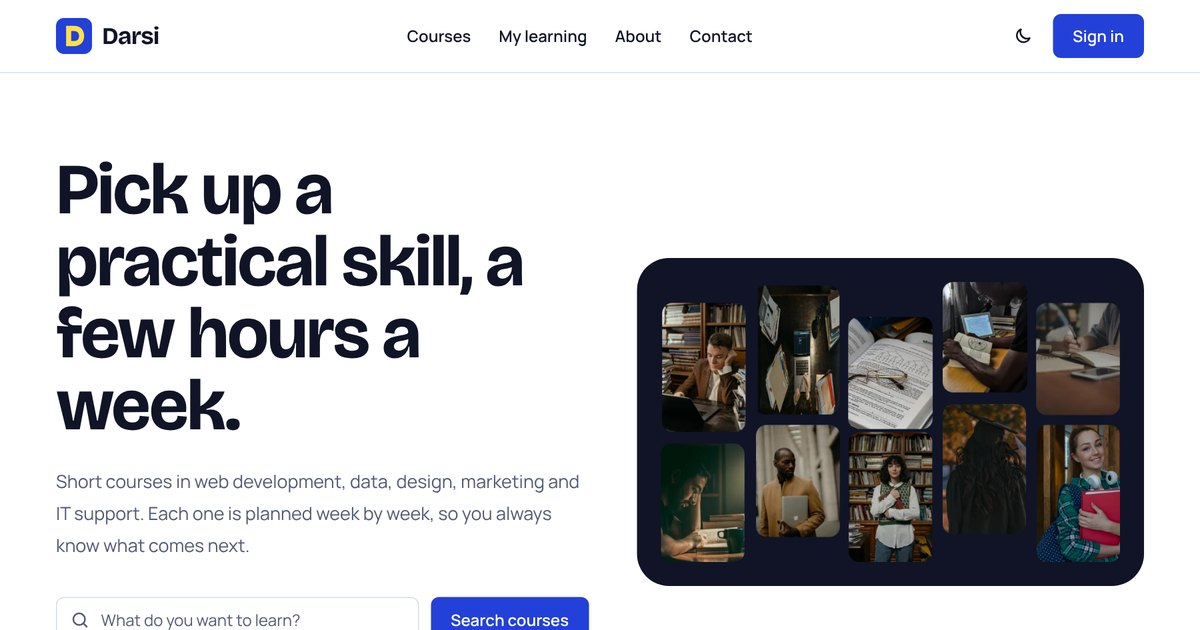
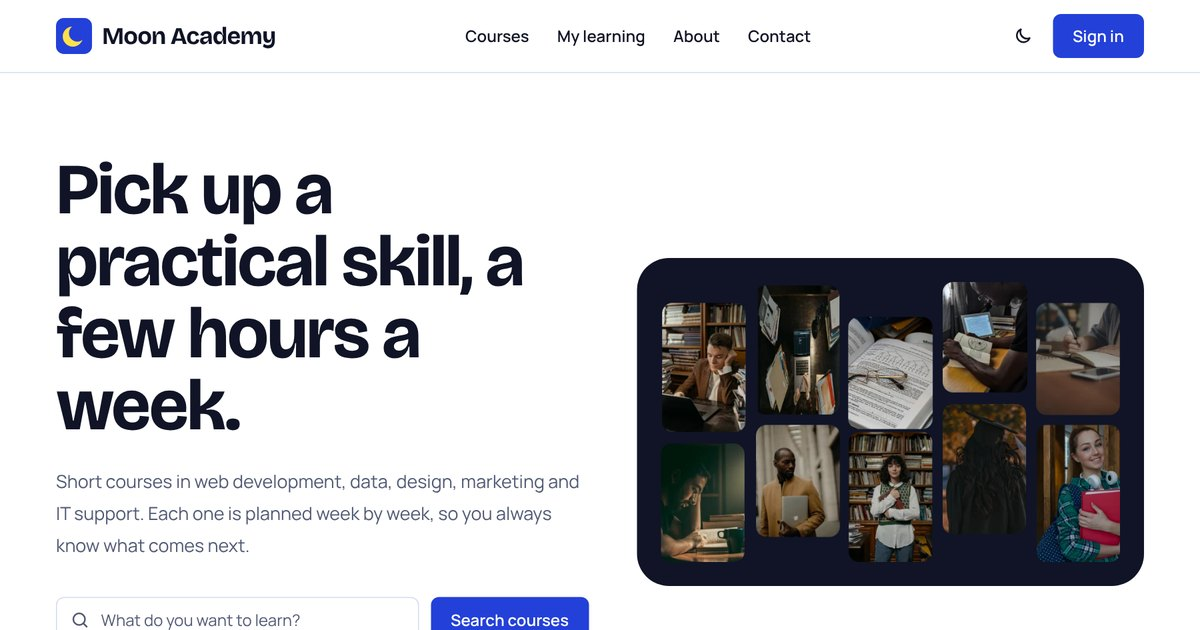
Rename the platform to Moon Academy
New name in the header, footer, page titles and README, a crescent
moon for the logo and icon, and storage keys that follow the name.
The live address is now moon-academy-courses.vercel.app.

Claude-Session: https://claude.ai/code/session_01TkRPnwSefusrgepjoER5a5

Changed region(s): [[0.3392, 0.0302, 0.6783, 0.0905], [0.0308, 0.0302, 0.2467, 0.0905]]

diff --git a/index.html b/index.html
@@ -3,13 +3,13 @@
   <head>
     <meta charset="UTF-8" />
     <meta name="viewport" content="width=device-width, initial-scale=1.0" />
-    <title>Darsi | Short online courses, planned week by week</title>
+    <title>Moon Academy | Short online courses, planned week by week</title>
     <meta
       name="description"
-      content="Darsi is a front-end demo of an online course platform: browse courses, enroll, and track your progress lesson by lesson."
+      content="Moon Academy is a front-end demo of an online course platform: browse courses, enroll, and track your progress lesson by lesson."
     />
     <meta name="theme-color" content="#2340D9" />
-    <meta property="og:title" content="Darsi | Short online courses, planned week by week" />
+    <meta property="og:title" content="Moon Academy | Short online courses, planned week by week" />
     <meta property="og:description" content="A front-end demo of an online course platform: browse courses, enroll, and track your progress lesson by lesson." />
     <meta property="og:type" content="website" />
     <meta property="og:image" content="/og.jpg" />
@@ -24,7 +24,7 @@
     <script>
       // Apply the saved or system theme before the first paint, so the page does not flash.
       try {
-        var saved = localStorage.getItem('darsi:theme')
+        var saved = localStorage.getItem('moon-academy:theme')
         var dark = saved ? saved === 'dark' : window.matchMedia('(prefers-color-scheme: dark)').matches
         if (dark) document.documentElement.classList.add('dark')
       } catch (e) {}

diff --git a/src/pages/Contact.jsx b/src/pages/Contact.jsx
@@ -3,7 +3,7 @@ import { Link } from 'react-router-dom'
 import FormField from '../components/FormField.jsx'
 import { emailPattern, useLearner } from '../lib/learner.jsx'
 
-const topics = ['A question about a course', 'A problem with the site', 'Teaching on Darsi', 'Something else']
+const topics = ['A question about a course', 'A problem with the site', 'Teaching at Moon Academy', 'Something else']
 
 function check(values) {
   const errors = {}
@@ -45,7 +45,7 @@ export default function Contact() {
         <div className="panel max-w-2xl" role="status">
           <h1 className="text-4xl font-bold tracking-tight">Thank you, {values.name.trim()}.</h1>
           <p className="soft mt-4 text-lg leading-8">
-            This is where a real site would confirm your message. Darsi is a demo, so the message was checked and then discarded: nothing was sent or stored.
+            This is where a real site would confirm your message. Moon Academy is a demo, so the message was checked and then discarded: nothing was sent or stored.
           </p>
           <div className="mt-8 flex flex-wrap gap-3">
             <Link to="/courses" className="btn-primary">

diff --git a/src/components/Navbar.jsx b/src/components/Navbar.jsx
@@ -22,13 +22,14 @@ function linkClass({ isActive }) {
 
 export function Brand() {
   return (
-    <Link to="/" className="flex items-center gap-2.5" aria-label="Darsi, home">
-      <svg viewBox="0 0 64 64" className="h-9 w-9" aria-hidden="true">
+    <Link to="/" className="flex items-center gap-2.5" aria-label="Moon Academy, home">
+      <svg viewBox="0 0 64 64" className="h-9 w-9 flex-none" aria-hidden="true">
         <rect width="64" height="64" rx="14" className="fill-cobalt" />
-        <path d="M18 14h14c11 0 18 7 18 18s-7 18-18 18H18z" className="fill-marker" />
-        <path d="M27 23h5c5.5 0 9 3.5 9 9s-3.5 9-9 9h-5z" className="fill-cobalt" />
+        {/* A crescent: a full disc with a second disc, in the background color, laid over it. */}
+        <circle cx="30" cy="33" r="18" className="fill-marker" />
+        <circle cx="38" cy="27" r="15" className="fill-cobalt" />
       </svg>
-      <span className="font-display text-2xl font-bold tracking-tight">Darsi</span>
+      <span className="whitespace-nowrap font-display text-2xl font-bold tracking-tight">Moon Academy</span>
     </Link>
   )
 }

diff --git a/src/components/Footer.jsx b/src/components/Footer.jsx
@@ -26,8 +26,8 @@ export default function Footer() {
           </ul>
         </nav>
 
-        <nav aria-label="Darsi">
-          <h2 className="font-body text-base font-bold">Darsi</h2>
+        <nav aria-label="Moon Academy">
+          <h2 className="font-body text-base font-bold">Moon Academy</h2>
           <ul className="mt-4 space-y-2.5">
             {[
               ['/courses', 'All courses'],
@@ -47,7 +47,7 @@ export default function Footer() {
 
       <div className="border-t border-line dark:border-night-line">
         <p className="wrap soft py-6 text-sm leading-6">
-          Darsi is a front-end demo. Courses, instructors and figures are sample data, and nothing you enter leaves
+          Moon Academy is a front-end demo. Courses, instructors and figures are sample data, and nothing you enter leaves
           your browser.
         </p>
       </div>

diff --git a/src/pages/About.jsx b/src/pages/About.jsx
@@ -28,7 +28,7 @@ export default function About() {
     <div className="wrap pb-8 pt-12 lg:pt-16">
       <h1 className="max-w-4xl text-5xl font-bold leading-[1.05] tracking-tight sm:text-6xl">A course platform you can try end to end.</h1>
       <p className="soft mt-6 max-w-2xl text-lg leading-8">
-        Darsi is a front-end demo. The {totals.courses} courses and {totals.lessons} lessons are sample content, the instructors are invented, and nothing is
+        Moon Academy is a front-end demo. The {totals.courses} courses and {totals.lessons} lessons are sample content, the instructors are invented, and nothing is
         sold. What is real is the interface: you can search, enroll, tick off lessons and come back to find your place.
       </p>
 

diff --git a/src/lib/learner.jsx b/src/lib/learner.jsx
@@ -2,7 +2,7 @@ import { createContext, useContext, useEffect, useMemo, useState } from 'react'
 
 // The "account" in this demo lives only in the visitor's browser.
 // Shape: { name: string | null, email: string | null, enrolled: { [slug]: string[] } }
-const STORAGE_KEY = 'darsi:learner'
+const STORAGE_KEY = 'moon-academy:learner'
 const empty = { name: null, email: null, enrolled: {} }
 
 function load() {

diff --git a/src/components/ThemeToggle.jsx b/src/components/ThemeToggle.jsx
@@ -1,7 +1,7 @@
 import { useEffect, useState } from 'react'
 import { MoonIcon, SunIcon } from './icons.jsx'
 
-const STORAGE_KEY = 'darsi:theme'
+const STORAGE_KEY = 'moon-academy:theme'
 
 export default function ThemeToggle() {
   // index.html has already set the class before React starts, so read it from there.

diff --git a/README.md b/README.md
@@ -1,10 +1,10 @@
-# Darsi
+# Moon Academy
 
 A front end for an online course platform, built with React and Tailwind CSS. You can search the catalog, open a course, enroll, tick lessons off, and come back later to find your place.
 
-**Live demo:** https://darsi-courses.vercel.app
+**Live demo:** https://moon-academy-courses.vercel.app
 
-Darsi is a demo. The courses and instructors are sample content, nothing is sold, and everything you do is kept in your own browser.
+Moon Academy is a demo. The courses and instructors are sample content, nothing is sold, and everything you do is kept in your own browser.
 
 ![Home page](./docs/home.jpg)
 
